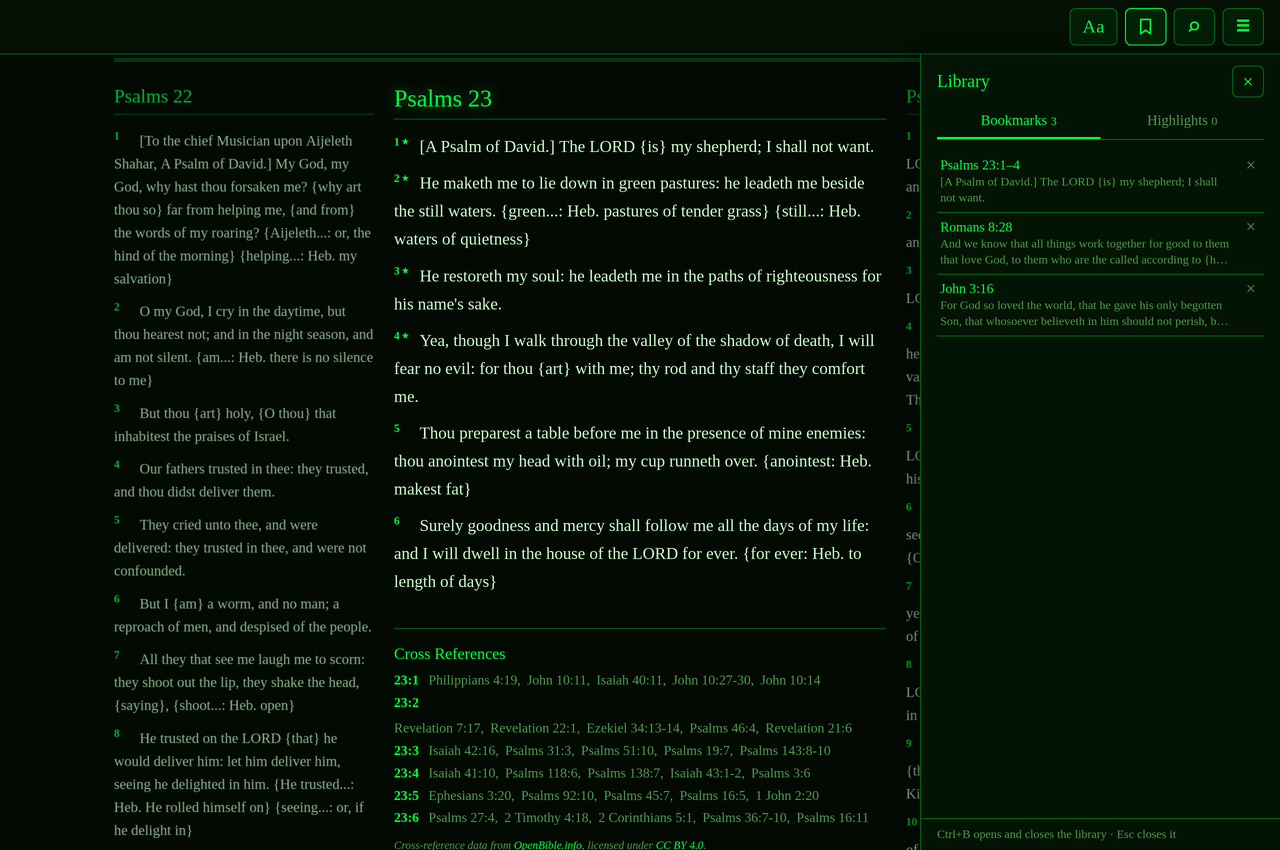
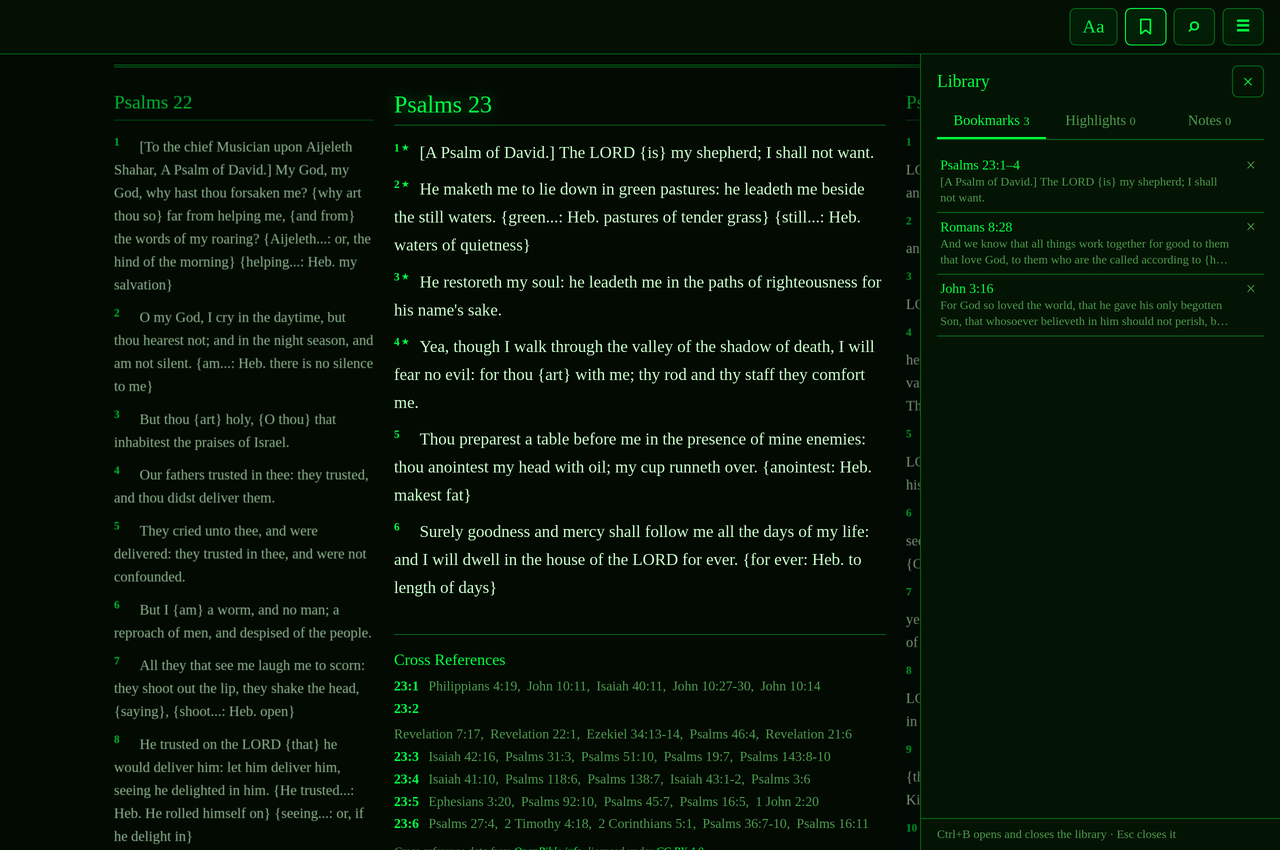
chore(release): bump version to 2.8.0 (#43)
Cargo.toml, Cargo.lock, tauri.conf.json and PKGBUILD pkgver: 2.7.0 -> 2.8.0 (pkgrel stays 1; PKGBUILD remains a draft, not AUR-published). The website shows version 2.8.0 and covers notes. A "Write notes" item in Keep what matters says what + Add note, the ✎ and the Library's Notes list do. Export, "Pick up where you left off", the privacy note and the update FAQ all name notes. The FAQ says versions 2.6 and 2.7 update themselves, and that a file exported by 2.8.0 needs 2.8.0 or newer to import. Its select image is recaptured at its old size and name with the new action bar and a note on 1 Corinthians 13:4–7, so it shows notes without new markup; its alt text says so. capture_screenshots.py can seed notes for a scene. The README does the same. It adds a Notes feature with a new screenshot (screenshots/notes.png: John 3:16–21 with notes on 3:16, 3:16–18 and 3:21), names notes wherever the Library, export and stored data are described, and says files from 2.8.0 (data format 3) can't be imported by 2.7.0 or older. N is added to the keyboard table. Updates now says 2.6.0 and 2.7.0 update themselves to 2.8.0 while 2.5.0 and older install it by hand once. copy-verse-range.png and bookmarks.png are recaptured at their old sizes and names, showing + Add note and the Library's three tabs, with alt text to match. The welcome is unchanged: it already mentions notes and nothing it says became untrue.

diff --git a/site/index.html b/site/index.html
@@ -60,7 +60,7 @@
                         <a class="button button-primary" href="#download-windows">Download for Windows</a>
                         <a class="button button-secondary" href="#download-linux">Download for Linux</a>
                     </div>
-                    <p class="hero-note">Version 2.7.0, for 64-bit Windows and Linux computers. The Windows installer isn’t code-signed yet, so Windows will probably warn you before it runs. <a href="#faq-smartscreen">What to expect</a>.</p>
+                    <p class="hero-note">Version 2.8.0, for 64-bit Windows and Linux computers. The Windows installer isn’t code-signed yet, so Windows will probably warn you before it runs. <a href="#faq-smartscreen">What to expect</a>.</p>
                     <p class="touch-only touch-note">Gospel Getter is a desktop app for <strong>Windows and Linux computers</strong>. There’s no phone, tablet or Mac version. To install it, open this page on your computer.</p>
 
                     <ul class="facts">
@@ -118,8 +118,9 @@
                             <li><strong>Bookmark passages.</strong> Bookmarked verses get a star, and the Library (the bookmark button at the top) opens any of them again.</li>
                             <li><strong>Highlight verses.</strong> Highlight the verses you’ve selected in yellow, green, blue or pink, like a highlighter pen. They show in whichever translation you’re reading.</li>
                             <li><strong>See all your highlights.</strong> The Highlights list in the Library shows every highlighted passage in Bible order, with its color and a preview. Filter by color, or click one to go back to it.</li>
-                            <li><strong>Back up or move your bookmarks.</strong> Export your bookmarks, highlights, reading position and display settings to a file, and import them on another computer. You see what a file contains before anything changes. Bible text isn’t included.</li>
-                            <li><strong>Pick up where you left off.</strong> Your chapter, translation, bookmarks, highlights and settings are remembered.</li>
+                            <li><strong>Write notes.</strong> Select verses and choose <strong>+ Add note</strong> to write about them. A small ✎ marks verses with notes, selecting them shows the notes, and the Notes list in the Library has them all, in Bible order.</li>
+                            <li><strong>Back up or move your bookmarks.</strong> Export your bookmarks, highlights, notes, reading position and display settings to a file, and import them on another computer. You see what a file contains before anything changes. Bible text isn’t included.</li>
+                            <li><strong>Pick up where you left off.</strong> Your chapter, translation, bookmarks, highlights, notes and settings are remembered.</li>
                         </ul>
                     </div>
                     <figure class="shot">
@@ -127,7 +128,7 @@
                              srcset="assets/select-800.webp 800w, assets/select-1600.webp 1600w"
                              sizes="(min-width: 56rem) 42rem, calc(100vw - 2rem)"
                              width="1600" height="1000" loading="lazy" decoding="async"
-                             alt="1 Corinthians 13 in the WEB in the Matrix theme. Verses 1 to 3 have bookmark stars, and verses 4 to 7 are selected, with Copy and Bookmark buttons, four highlight color swatches and the reference “1 Corinthians 13:4–7 (WEB)” beneath them.">
+                             alt="1 Corinthians 13 in the WEB in the Matrix theme. Verses 1 to 3 have bookmark stars, and verses 4 to 7 are selected and marked with a pencil for their note. Beneath them are Copy, Bookmark and + Add note buttons, four highlight color swatches and the reference “1 Corinthians 13:4–7 (WEB)”, then the note: “Paul describes love by what it does. Read verses 4–7 again with ‘Christ’ in place of ‘love’.”">
                     </figure>
                 </div>
 
@@ -159,7 +160,7 @@
                         <li><strong>No account.</strong> There’s nothing to sign up for or log in to.</li>
                     </ul>
                     <ul>
-                        <li><strong>Your reading stays on your computer.</strong> Bookmarks, highlights, reading position and settings are kept on your computer, in the app’s own data folder. The app only goes online to check for a new version, which you can turn off, and to download one you’ve chosen to install.</li>
+                        <li><strong>Your reading stays on your computer.</strong> Bookmarks, highlights, notes, reading position and settings are kept on your computer, in the app’s own data folder. The app only goes online to check for a new version, which you can turn off, and to download one you’ve chosen to install.</li>
                         <li><strong>A native app.</strong> No browser to open and no background server.</li>
                         <li><strong>Free and open source.</strong> <a href="https://github.com/tossbaws/gospel-getter">The code is on GitHub</a> under the MIT license.</li>
                     </ul>
@@ -221,7 +222,7 @@
         <section class="section section-alt download" id="download" aria-labelledby="download-title">
             <div class="wrap">
                 <h2 id="download-title">Download Gospel Getter</h2>
-                <p class="release-line"><strong>Version 2.7.0.</strong> Free, for 64-bit Windows and Linux. <a href="https://github.com/tossbaws/gospel-getter/releases/latest">What’s new</a></p>
+                <p class="release-line"><strong>Version 2.8.0.</strong> Free, for 64-bit Windows and Linux. <a href="https://github.com/tossbaws/gospel-getter/releases/latest">What’s new</a></p>
                 <p class="touch-only touch-note">You seem to be on a phone or tablet. Gospel Getter runs on <strong>Windows and Linux computers</strong> only, so open this page on your computer to install it.</p>
 
                 <div class="platforms">
@@ -304,9 +305,9 @@
                     <div>
                         <p>It can, and it always asks first. When Gospel Getter starts, it checks whether there’s a new version. If there is, it tells you, and nothing is downloaded or installed until you choose <strong>Update and restart</strong>. You can choose <strong>Later</strong> instead, or turn the check off in <strong>About Gospel Getter</strong>, from the ☰ menu. <strong>Check now</strong> there checks whenever you like.</p>
                         <p>The Windows installers (setup.exe or MSI), the AppImage and the .deb from this page update themselves. If you built Gospel Getter yourself or installed it another way, the app offers a link to the download page instead.</p>
-                        <p>Versions 2.5 and older can’t update themselves. If you have one of those, download the new version from this page and install it over the old one, just this once.</p>
+                        <p>Versions 2.6 and 2.7 update themselves to this one. Versions 2.5 and older can’t update themselves. If you have one of those, download the new version from this page and install it over the old one, just this once.</p>
                         <p>Checking downloads a small file from GitHub that names the latest version, so GitHub sees your IP address, as with any download. Nothing about your reading or your data is sent.</p>
-                        <p>Updating keeps your bookmarks, highlights, reading position and settings. To be safe, or to move to another computer, use <strong>Export data…</strong> in the ☰ menu first.</p>
+                        <p>Updating keeps your bookmarks, highlights, notes, reading position and settings. To be safe, or to move to another computer, use <strong>Export data…</strong> in the ☰ menu first. A file exported by version 2.8.0 needs 2.8.0 or newer to import.</p>
                     </div>
                 </details>
 

diff --git a/tools/site/capture_screenshots.py b/tools/site/capture_screenshots.py
@@ -177,14 +177,18 @@ class Capturer:
         self.error = error
         self.loop.quit()
 
-    def scene(self, name, *, size, prefs, position, steps, bookmarks=(), full=False):
-        """Load the app fresh and run `steps` (an async JS function body)."""
+    def scene(self, name, *, size, prefs, position, steps, bookmarks=(), notes=(), full=False):
+        """Load the app fresh and run `steps` (an async JS function body).
+        `bookmarks` and `notes` (each with its text last) are saved first."""
         book, chapter, translation = position
         self.bridge.call("__reset", {"bookId": book_id(book), "chapter": chapter,
                                      "translationCode": translation})
         for b, c, v1, v2 in bookmarks:
             self.bridge.call("add_bookmark", {"bookId": book_id(b), "chapter": c,
                                               "verseStart": v1, "verseEnd": v2})
+        for b, c, v1, v2, body in notes:
+            self.bridge.call("add_note", {"bookId": book_id(b), "chapter": c,
+                                          "verseStart": v1, "verseEnd": v2, "body": body})
         self.ucm.remove_all_scripts()
         self.ucm.add_script(WebKit2.UserScript.new(
             INIT_JS % {"prefs": json.dumps(prefs)},
@@ -258,13 +262,17 @@ def feature_scenes(theme):
              steps="""
                 await __gg.until(() => document.querySelector('.compare-grid'), 'compare grid');
              """ + SCROLL_TO % ("document.querySelector('.chapter-heading')", 40)),
-        # A selected range with Copy and Bookmark, earlier bookmarks starred.
+        # A selected range with Copy, Bookmark and + Add note, earlier
+        # bookmarks starred, and the range's note under its actions.
         dict(name="select", size=(1280, 800), prefs=look, position=("1 Corinthians", 13, "web"),
              bookmarks=[("1 Corinthians", 13, 1, 3)],
+             notes=[("1 Corinthians", 13, 4, 7,
+                     "Paul describes love by what it does. Read verses 4\u20137 again with "
+                     "\u201cChrist\u201d in place of \u201clove\u201d.")],
              steps="""
                 __gg.click(__gg.verse(4));
                 __gg.click(__gg.verse(7), { shiftKey: true });
-                await __gg.until(() => document.querySelector('.verse-actions'), 'verse actions');
+                await __gg.until(() => document.querySelector('.verse-notes'), 'the notes on it');
              """ + SCROLL_TO % ("document.querySelector('.chapter-heading')", 40)),
     ]
 

diff --git a/README.md b/README.md
@@ -6,8 +6,8 @@
 
 An offline Bible reader for Linux and Windows. Read the KJV or WEB a chapter
 at a time with the chapters before and after shown alongside, search the
-whole Bible, compare the two translations verse by verse, and copy or
-bookmark passages. No account and no network needed.
+whole Bible, compare the two translations verse by verse, and copy,
+bookmark or write notes on passages. No account and no network needed.
 
 ![The reading view in the Matrix theme: John 3 in the centre, with John 2 and John 4 faded on either side, under the chapter picker](screenshots/reading-neighboring-chapters.png)
 
@@ -41,6 +41,14 @@ bookmark passages. No account and no network needed.
   preview in the current translation. Neighboring verses highlighted in
   the same color are one entry (`John 3:16–18`). Filter by color, click a
   passage to open it, or remove its highlight with ×.
+- **Notes.** Select a verse or range and choose **+ Add note** (or press
+  N) to write about it, in a panel that shows the verses. A passage can
+  have several notes, and they show in every translation. A small ✎ marks
+  verses with notes, selecting verses shows every note on them, and the
+  Notes tab in the Library lists them all in Bible order. Deleting a note
+  offers **Undo**.
+
+  ![John 3:16 to 21 selected in the WEB in the Matrix theme, with ✎ marks after verses 16, 17, 18 and 21 and, under the Copy, Bookmark and + Add note buttons, a Notes (3) section listing a note on John 3:16, one on John 3:16–18 and one on John 3:21, each with its date and an Edit link](screenshots/notes.png)
 - **Compare translations.** Press `C` (or **Compare** under **Aa**) to see
   KJV and WEB side by side, one row per verse number. Where only one
   translation numbers a verse, the other column says so instead of
@@ -52,16 +60,20 @@ bookmark passages. No account and no network needed.
   spacings, and a distraction-free reading mode, all under **Aa** with the
   translation. Printing is always black on white.
 - **Everything in reach, out of the way.** A slim bar at the top holds
-  **Aa** (text and display), the **Library** (bookmarks and highlights),
+  **Aa** (text and display), the **Library** (bookmarks, highlights and
+  notes),
   search and the **☰** menu (export, import, the welcome and **About
   Gospel Getter**). Only one opens at a time, and Esc closes it.
 - **Picks up where you left off.** Your chapter, translation, bookmarks,
-  highlights and display settings are remembered between sessions.
+  highlights, notes and display settings are remembered between sessions.
 - **Back up or move your data.** In the ☰ menu, **Export data…** saves your
-  bookmarks, highlights, reading position and display settings to a JSON
-  file, and **Import data…** shows what a file contains before adding it
-  (or, if you choose, replacing your bookmarks and highlights). Only that
-  personal data is exported, not Bible text or the app's database.
+  bookmarks, highlights, notes, reading position and display settings to a
+  JSON file, and **Import data…** shows what a file contains before adding
+  it (or, if you choose, replacing your bookmarks, highlights and notes).
+  Only that personal data is exported, not Bible text or the app's
+  database. Files exported by 2.8.0 (data format 3, which adds notes) can't
+  be imported by 2.7.0 or older, which say the file is from a newer
+  version; files from older versions still import into 2.8.0.
 - **A short welcome.** On a new install, a four-page overview of the
   features opens the first time. **Skip** (or Esc) closes it, and
   **Show welcome** in the ☰ menu opens it again. Upgrading doesn't show it.
@@ -76,7 +88,7 @@ bookmark passages. No account and no network needed.
 
 ## A quick tour
 
-All five screenshots in this README, including the one at the top, use the
+All six screenshots in this README, including the one at the top, use the
 Matrix theme. The other five themes are under **Aa**.
 
 **Search the text, or jump straight to a reference.** Matching words are
@@ -93,12 +105,12 @@ shifting anything.
 **Select a range and copy it with its reference.** The citation underneath
 shows exactly what will be copied.
 
-![John 3:16 to 18 selected in the WEB in the Matrix theme, with Copy and Bookmark buttons and the citation "John 3:16–18 (WEB)"](screenshots/copy-verse-range.png)
+![John 3:16 to 18 selected in the WEB in the Matrix theme, with Copy, Bookmark and + Add note buttons, four highlight color swatches and the citation "John 3:16–18 (WEB)"](screenshots/copy-verse-range.png)
 
 **Bookmark passages and come back to them.** Bookmarked verses are starred
 in the text, and the Library (Ctrl+B) lists each one with a preview.
 
-![Psalm 23 with verses 1 to 4 starred in the Matrix theme, and the Library panel open on its Bookmarks tab listing Psalms 23:1–4, Romans 8:28 and John 3:16](screenshots/bookmarks.png)
+![Psalm 23 with verses 1 to 4 starred in the Matrix theme, and the Library panel open on its Bookmarks tab, beside the Highlights and Notes tabs, listing Psalms 23:1–4, Romans 8:28 and John 3:16](screenshots/bookmarks.png)
 
 ## Keyboard
 
@@ -108,7 +120,8 @@ in the text, and the Library (Ctrl+B) lists each one with a preview.
 | `/` or Ctrl+K | Open search. Enter goes to a reference; ↓ / ↑ move through results |
 | Ctrl+C | Copy the selected verses with their reference. If you've highlighted text yourself, that's copied instead, as usual |
 | `C` | Compare translations on/off |
-| Ctrl+B | Open or close the Library (bookmarks and highlights) |
+| Ctrl+B | Open or close the Library (bookmarks, highlights and notes) |
+| `N` | Write a note on the selected verses |
 | Shift-click | Extend the selection to a range within the chapter |
 | Esc | Close search or the open panel or popover, then clear the selection, then leave reading mode |
 
@@ -176,12 +189,13 @@ without you choosing **Update and restart**.
 latest version, so GitHub sees your IP address, as with any download.
 Nothing about your reading or your data is sent.
 
-**Coming from 2.6.0?** It updates itself to 2.7.0: it offers the update
-when it starts (or from **Check now**, in the Updates section of its
-Settings), if it's one of the installs above that update themselves.
+**Coming from 2.6.0 or 2.7.0?** Each updates itself to 2.8.0: it offers
+the update when it starts (or from **Check now**, in **About Gospel
+Getter** from the ☰ menu in 2.7.0, or in the Updates section of Settings
+in 2.6.0), if it's one of the installs above that update themselves.
 
 **Coming from 2.5.0 or older?** Those versions can't update themselves.
-Install 2.7.0 by hand once, from the
+Install 2.8.0 by hand once, from the
 [latest release](https://github.com/tossbaws/gospel-getter/releases/latest),
 over your current version; updates after that can come from inside the app.
 Upgrading keeps your data.
@@ -189,13 +203,13 @@ Upgrading keeps your data.
 ## Your data
 
 - Everything (translations, cross-references, reading position, bookmarks,
-  highlights and the search index) lives in one SQLite database in the per-app data
+  highlights, notes and the search index) lives in one SQLite database in the per-app data
   folder. On Linux that's
   `~/.local/share/com.tossbaws.gospel-getter/gospel_getter.db`; on Windows
   it's under `%APPDATA%\com.tossbaws.gospel-getter\`.
 - **Upgrades keep your data.** A new version adds any new tables and builds
   the search index once, in the background, without changing scripture
-  text, your reading position, bookmarks or highlights. Moving back to an older
+  text, your reading position, bookmarks, highlights or notes. Moving back to an older
   version after upgrading hasn't been tested.
 - Theme, text size, line spacing, compare and reading mode are display
   settings stored in the app's web storage, not the database.

diff --git a/site/README.md b/site/README.md
@@ -55,7 +55,7 @@ version bump: until a release has those names, the links 404.
   "Brand" below.
 - The screenshots are the real app (`ui/index.html`) showing the real
   bundled KJV and WEB text, in WebKitGTK, the engine the Linux app uses.
-  The feature screenshots (hero, search, copy and bookmark, compare, and
+  The feature screenshots (hero, search, copy, bookmark and note, compare, and
   `og-image.jpg`) are in the Matrix theme; the "Make it yours" strip shows
   all six themes.
   `tools/site/capture_screenshots.py` loads the page offscreen and answers
